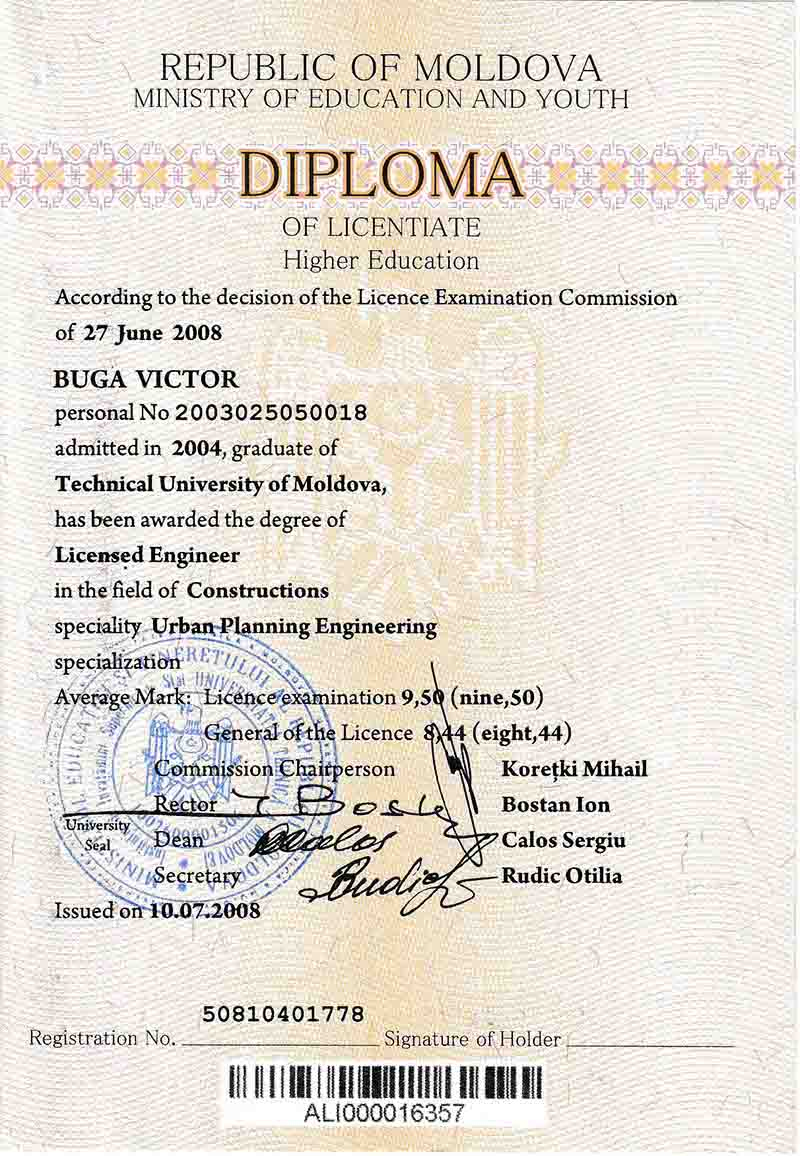
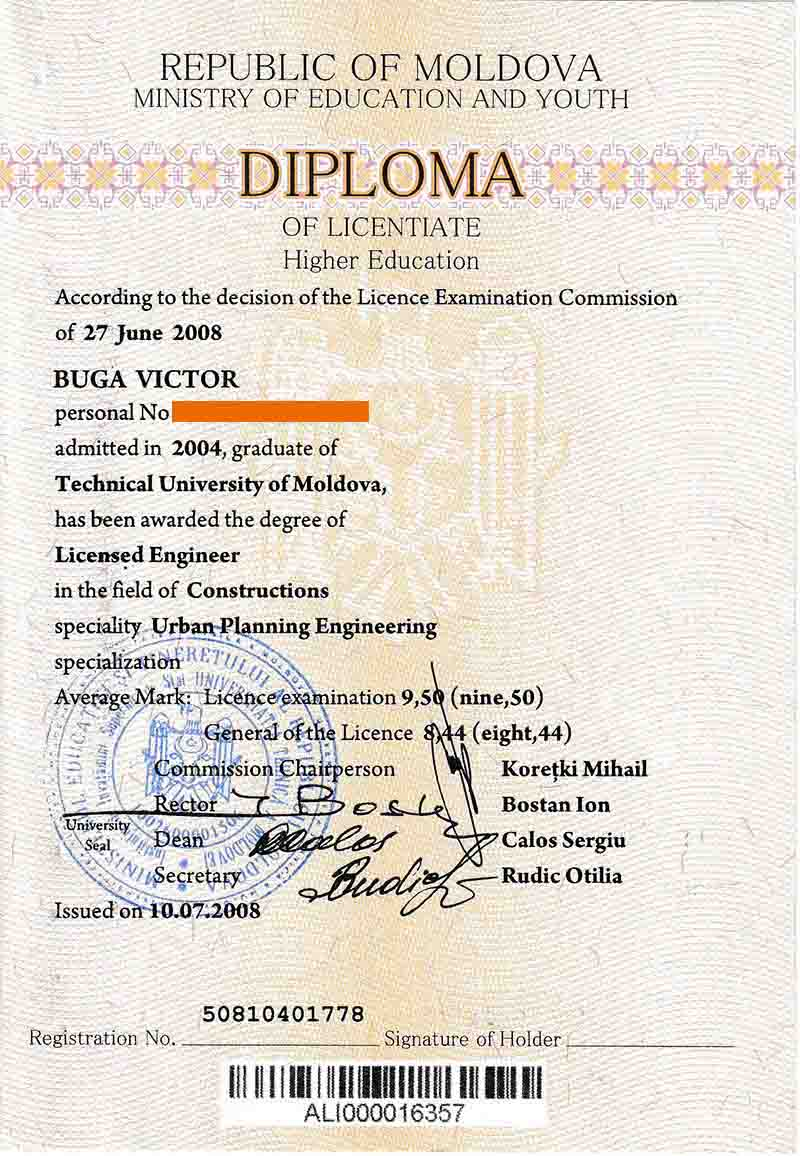
fix diplome pers nr

Changed region(s): [[0.1875, 0.3426, 0.4688, 0.3737]]

diff --git a/cv-app/src/index.css b/cv-app/src/index.css
@@ -261,3 +261,12 @@ a {
 /* ////////////////////////////////////////////////////////////////// */
 /* ////////////////////////////////////////////////////////////////// */
 /* ////////////////////////////////////////////////////////////////// */
+
+
+/* text-[#ec6a01] */
+/* text-[#ec6a01] */
+/* text-[#ec6a01] */
+/* text-[#ec6a01] */
+/* text-[#ec6a01] */
+/* text-[#ec6a01] */
+/* text-[#ec6a01] */
